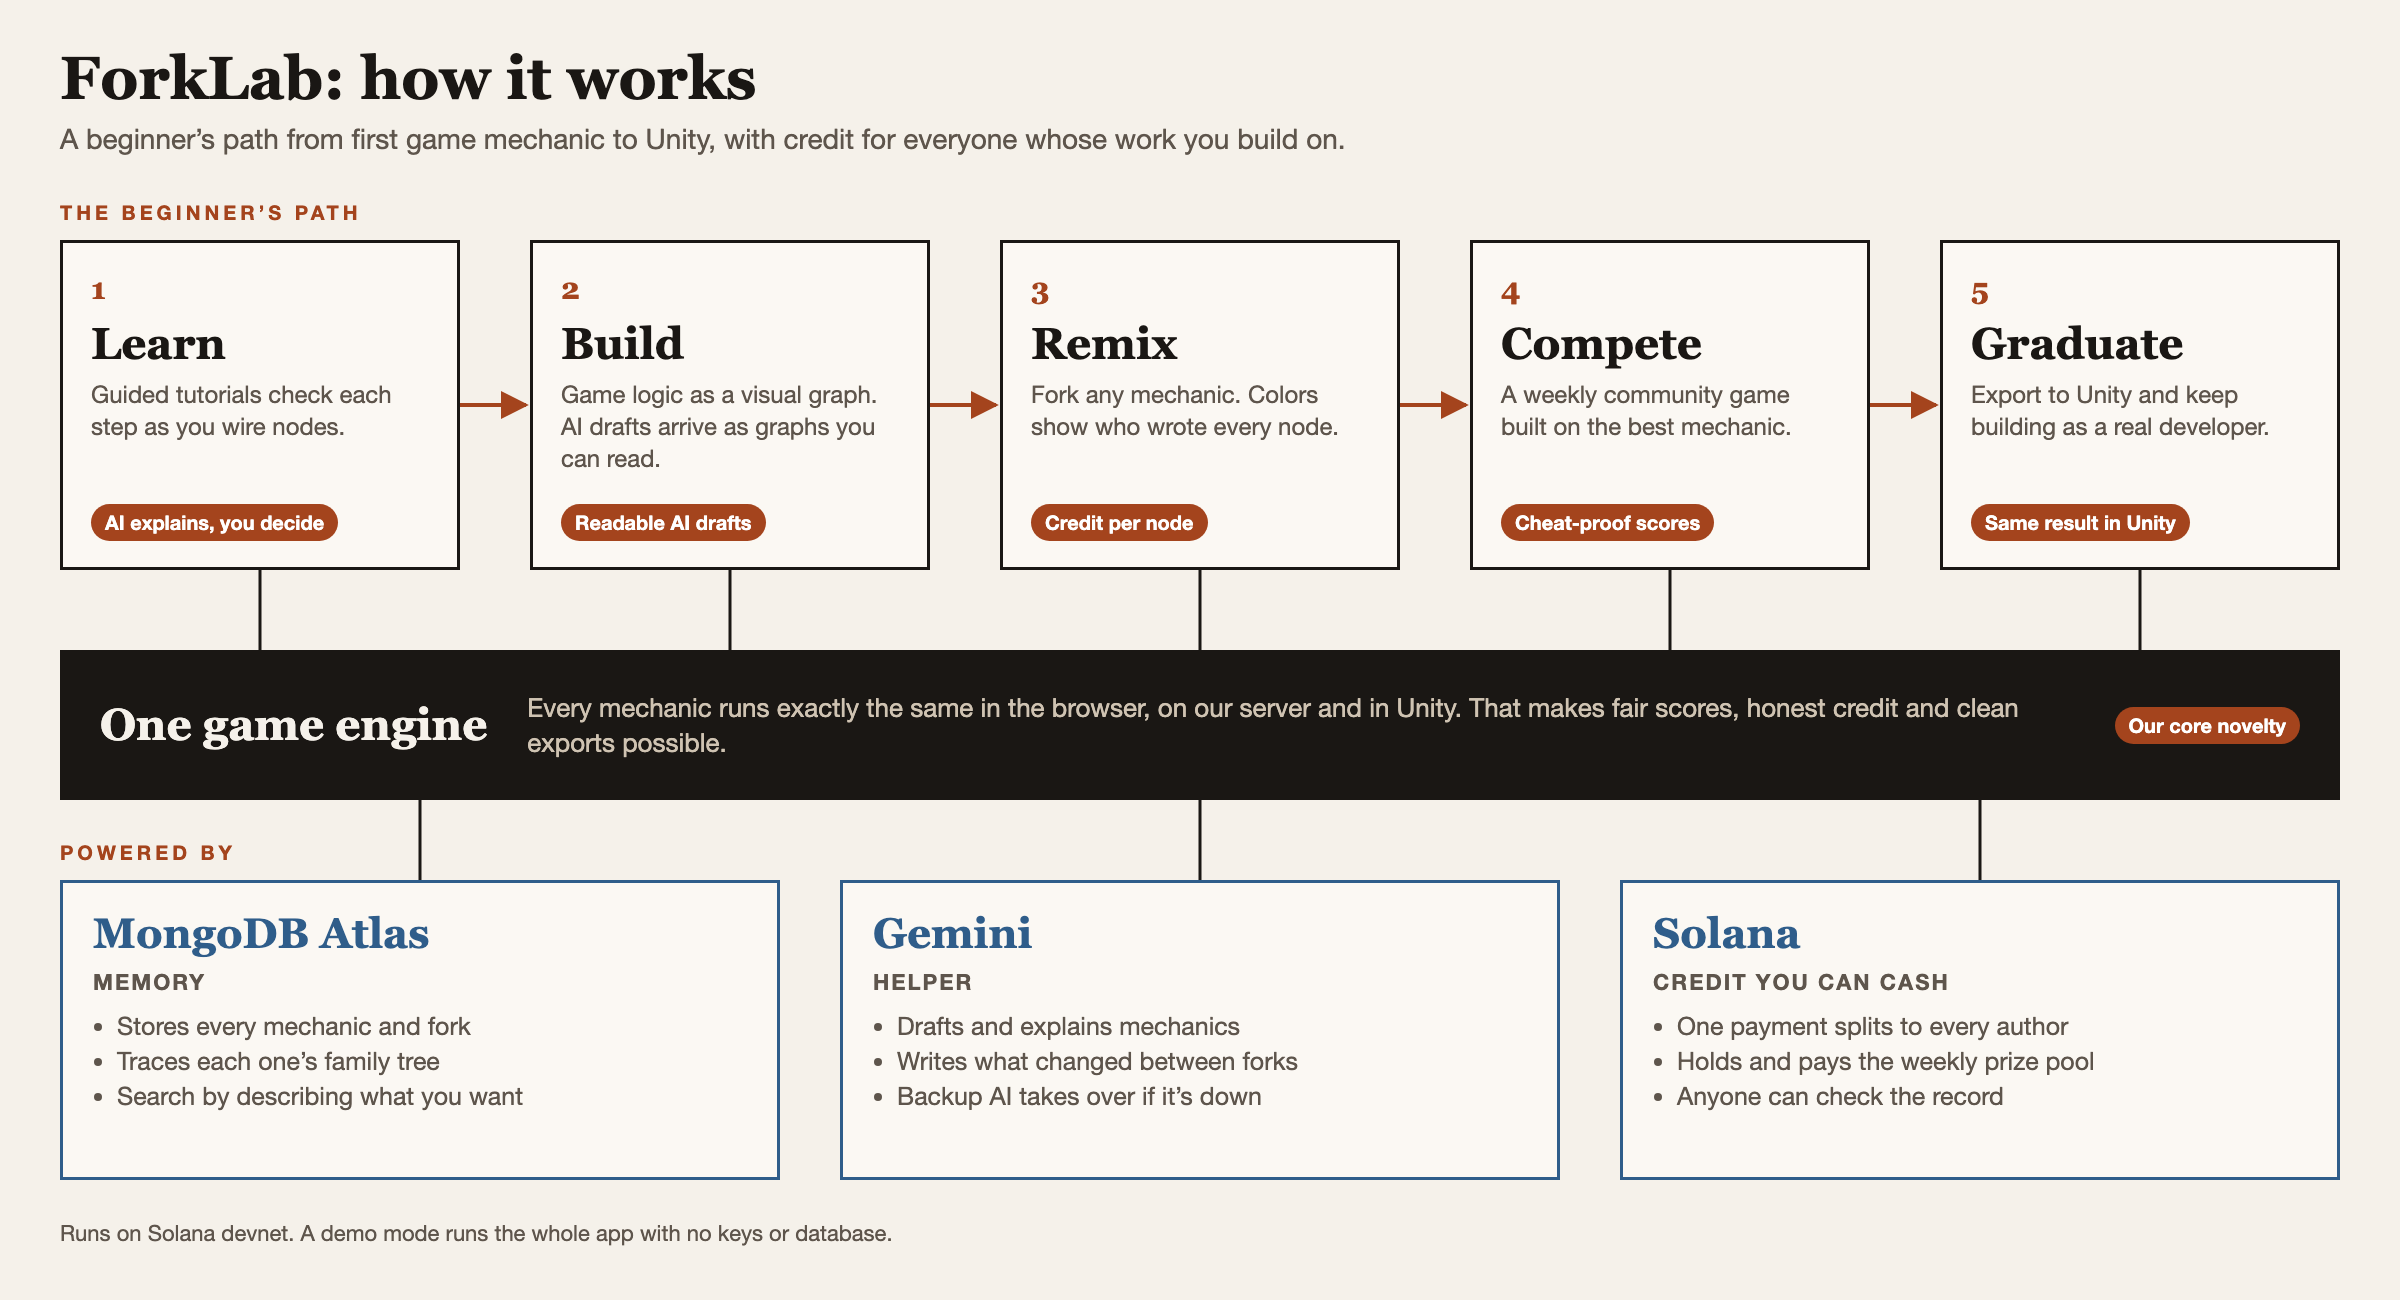
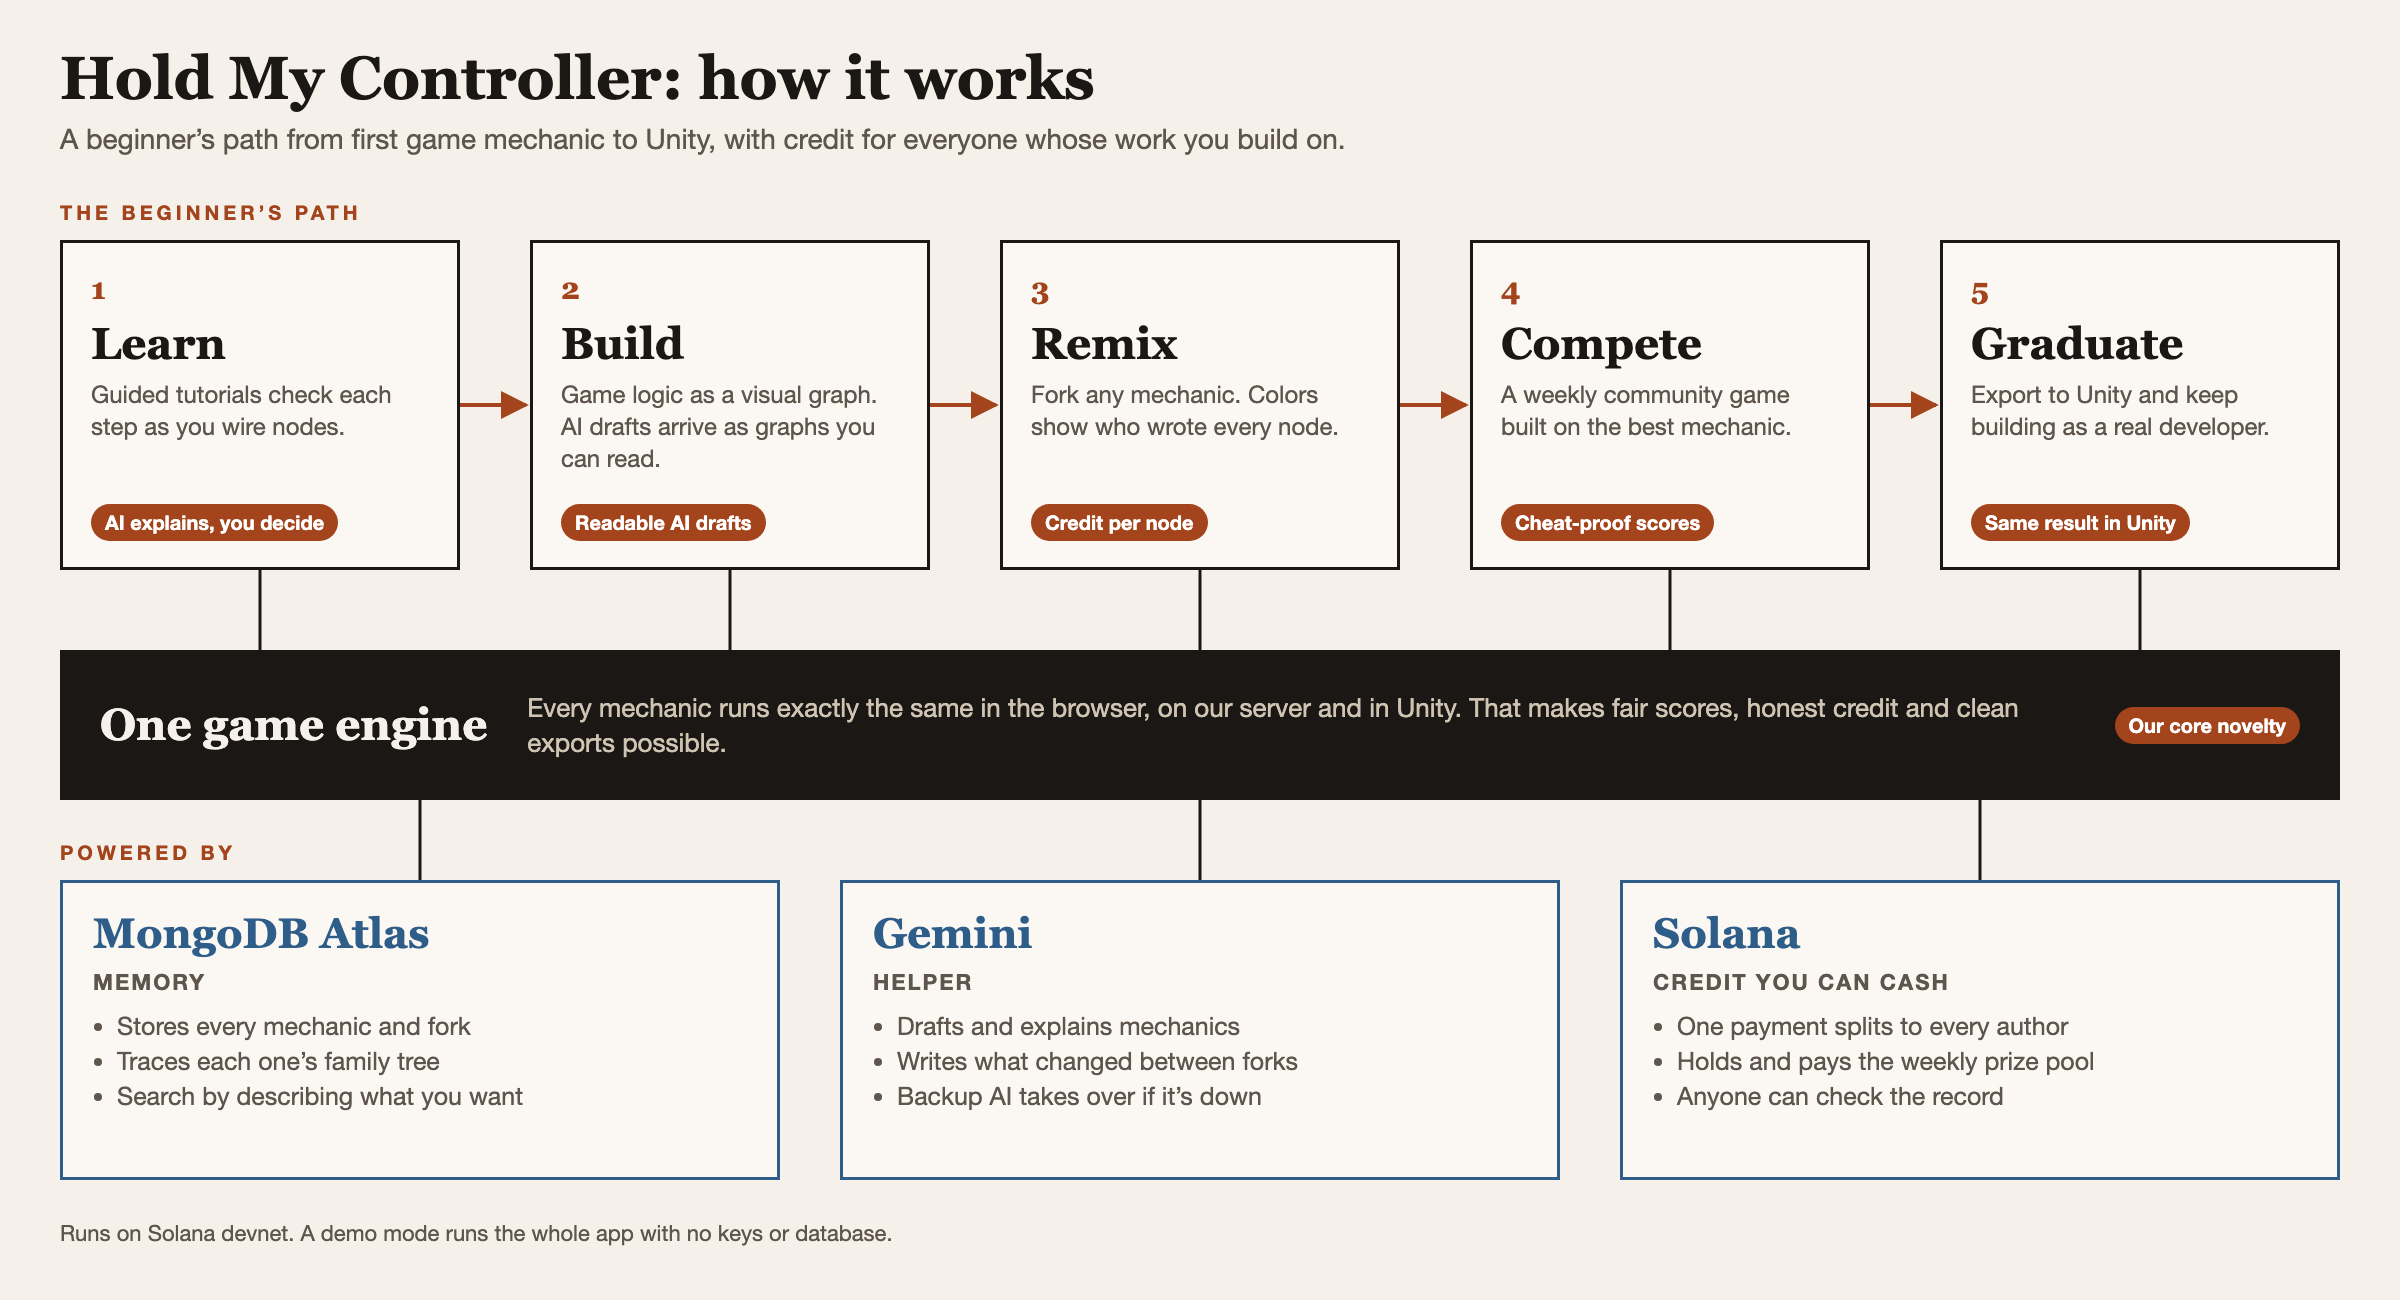
Rename diagrams to Hold My Controller

Changed region(s): [[0.0312, 0.0308, 0.4688, 0.0923]]

diff --git a/docs/architecture.html b/docs/architecture.html
@@ -1,5 +1,5 @@
 <!doctype html>
-<html><head><meta charset="utf-8"><title>ForkLab architecture</title>
+<html><head><meta charset="utf-8"><title>Hold My Controller architecture</title>
 <style>
   :root { --ink:#1A1714; --paper:#F5F1EA; --clay:#A4441D; --muted:#5E554C; --rule:#CFC5B6; --blue:#2F5D8A; --green:#3C6E47; --purple:#6A4C93; }
   * { margin:0; box-sizing:border-box; }
@@ -26,7 +26,7 @@
   .legend i { font-style:normal; color:var(--ink); font-weight:700; }
 </style></head>
 <body>
-<h1>ForkLab architecture: components and how they interact</h1>
+<h1>Hold My Controller architecture: components and how they interact</h1>
 <p class="sub">Numbered tags on arrows match the flows at the bottom. Devnet only. FORKLAB_MODE=mock swaps MongoDB, AI and chain for in-memory store, cached answers and receipts labeled Simulated.</p>
 
 <p class="col" style="left:40px;">Clients</p>

diff --git a/docs/overview.html b/docs/overview.html
@@ -1,5 +1,5 @@
 <!doctype html>
-<html><head><meta charset="utf-8"><title>ForkLab overview</title>
+<html><head><meta charset="utf-8"><title>Hold My Controller overview</title>
 <style>
   :root { --ink:#1A1714; --paper:#F5F1EA; --clay:#A4441D; --muted:#5E554C; --blue:#2F5D8A; }
   * { margin:0; box-sizing:border-box; }
@@ -25,7 +25,7 @@
   svg { position:absolute; left:0; top:0; }
 </style></head>
 <body>
-<h1>ForkLab: how it works</h1>
+<h1>Hold My Controller: how it works</h1>
 <p class="sub">A beginner’s path from first game mechanic to Unity, with credit for everyone whose work you build on.</p>
 
 <p class="label" style="left:60px;top:200px;">The beginner’s path</p>

diff --git a/docs/stack.html b/docs/stack.html
@@ -1,5 +1,5 @@
 <!doctype html>
-<html><head><meta charset="utf-8"><title>ForkLab tech stack pipeline</title>
+<html><head><meta charset="utf-8"><title>Hold My Controller tech stack pipeline</title>
 <style>
   :root { --ink:#1A1714; --paper:#F5F1EA; --clay:#A4441D; --muted:#5E554C; }
   * { margin:0; box-sizing:border-box; }
@@ -28,7 +28,7 @@
   svg { position:absolute; left:0; top:0; }
 </style></head>
 <body>
-<h1>ForkLab tech stack pipeline</h1>
+<h1>Hold My Controller tech stack pipeline</h1>
 <p class="sub">What each technology does, in the order a mechanic moves through the app.</p>
 
 <!-- Stage labels and headers -->
